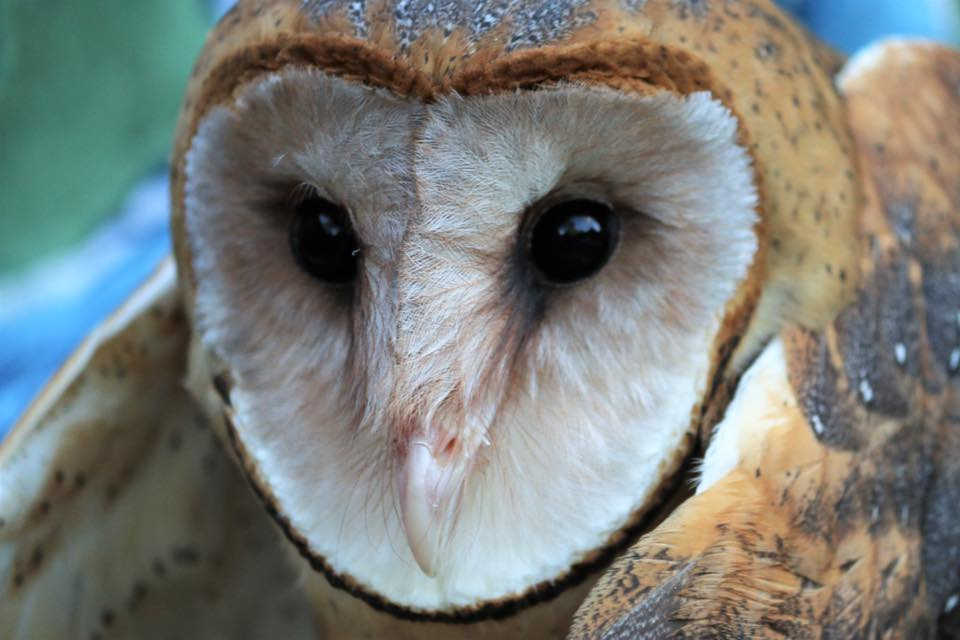
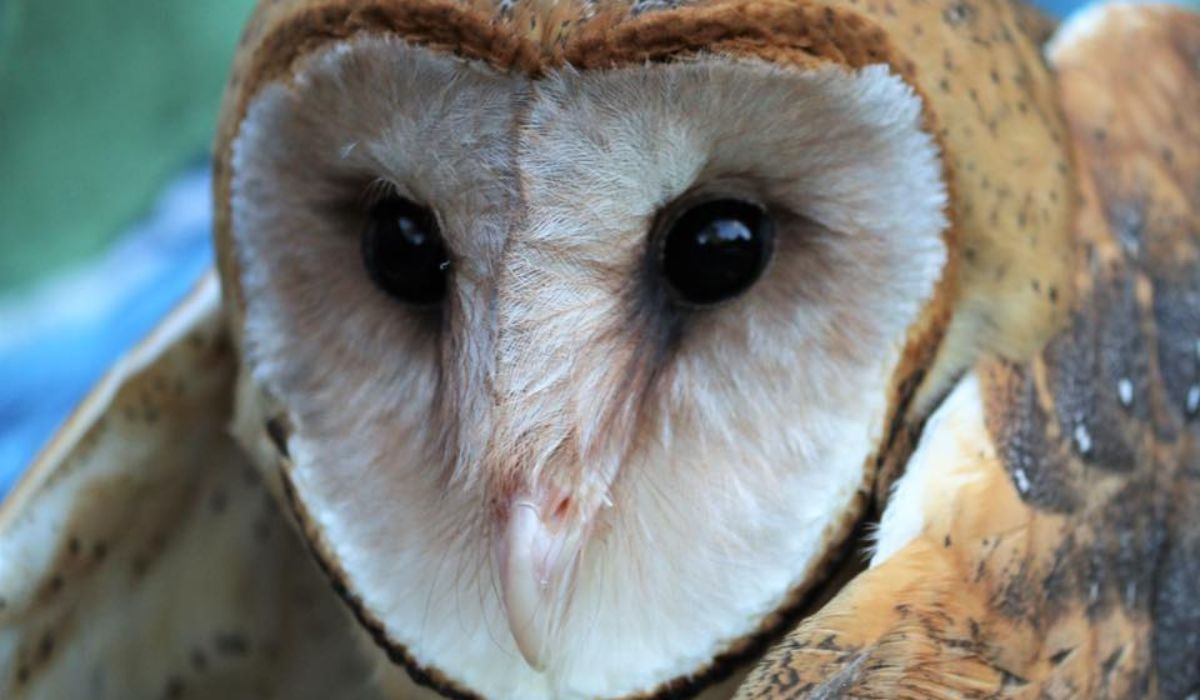
fixed index slider

diff --git a/news.html b/news.html
@@ -17,10 +17,10 @@ featured-image_path: /images/mural.jpg
 
   <h4><a href="/documents/news/"> </a></h4>
 
-  <h4><a href="/documents/news/Wildlife-Center-Founder-Removed-From-Board-Win-Star-10.31.15.pdf">Wildlife Center Founder Removed From Board, <i>The Winchester Star – October 31, 2015</i></a></h4>
+  <h4><a href="/documents/Wildlife-Center-Founder-Removed-From-Board-Win-Star-10.31.15.pdf" target="_blank">Wildlife Center Founder Removed From Board, <i>The Winchester Star – October 31, 2015</i></a></h4>
 
-  <h4><a href="/documents/news/Letter-to-the-Editor-Foul-Play-at-the-BRWC-1.pdf">Letter to the Editor: Foul Play at the BRWC, <i>The Winchester Star - October 9, 2015</i></a></h4>
+  <h4><a href="/documents/Letter-to-the-Editor-Foul-Play-at-the-BRWC-1.pdf">Letter to the Editor: Foul Play at the BRWC, <i>The Winchester Star - October 9, 2015</i></a></h4>
 
-  <h4><a href="/documents/news/Winchester-Star-Open-Forum-Vultures-Circling-9.29.15-1.pdf">Open Forum: Vultures Circling, <i>The Winchester Star - September 29, 2015</i></a></h4>
+  <h4><a href="/documents/Winchester-Star-Open-Forum-Vultures-Circling-9.29.15-1.pdf">Open Forum: Vultures Circling, <i>The Winchester Star - September 29, 2015</i></a></h4>
 
-  <h4><a href="/documents/news/Wildlife-Center-Founder-Says-She-Was-Forced-Out-Win-Star-9.15.pdf">Wildlife Center Founder Says She Was Forced Out, <i>The Winchester Star - September 5, 2015</i></a></h4>
+  <h4><a href="/documents/Wildlife-Center-Founder-Says-She-Was-Forced-Out-Win-Star-9.15.pdf">Wildlife Center Founder Says She Was Forced Out, <i>The Winchester Star - September 5, 2015</i></a></h4>

diff --git a/_site/news.html b/_site/news.html
@@ -141,13 +141,13 @@
 
   <h4><a href="/documents/news/"> </a></h4>
 
-  <h4><a href="/documents/news/Wildlife-Center-Founder-Removed-From-Board-Win-Star-10.31.15.pdf">Wildlife Center Founder Removed From Board, <i>The Winchester Star – October 31, 2015</i></a></h4>
+  <h4><a href="/documents/Wildlife-Center-Founder-Removed-From-Board-Win-Star-10.31.15.pdf" target="_blank">Wildlife Center Founder Removed From Board, <i>The Winchester Star – October 31, 2015</i></a></h4>
 
-  <h4><a href="/documents/news/Letter-to-the-Editor-Foul-Play-at-the-BRWC-1.pdf">Letter to the Editor: Foul Play at the BRWC, <i>The Winchester Star - October 9, 2015</i></a></h4>
+  <h4><a href="/documents/Letter-to-the-Editor-Foul-Play-at-the-BRWC-1.pdf">Letter to the Editor: Foul Play at the BRWC, <i>The Winchester Star - October 9, 2015</i></a></h4>
 
-  <h4><a href="/documents/news/Winchester-Star-Open-Forum-Vultures-Circling-9.29.15-1.pdf">Open Forum: Vultures Circling, <i>The Winchester Star - September 29, 2015</i></a></h4>
+  <h4><a href="/documents/Winchester-Star-Open-Forum-Vultures-Circling-9.29.15-1.pdf">Open Forum: Vultures Circling, <i>The Winchester Star - September 29, 2015</i></a></h4>
 
-  <h4><a href="/documents/news/Wildlife-Center-Founder-Says-She-Was-Forced-Out-Win-Star-9.15.pdf">Wildlife Center Founder Says She Was Forced Out, <i>The Winchester Star - September 5, 2015</i></a></h4>
+  <h4><a href="/documents/Wildlife-Center-Founder-Says-She-Was-Forced-Out-Win-Star-9.15.pdf">Wildlife Center Founder Says She Was Forced Out, <i>The Winchester Star - September 5, 2015</i></a></h4>
 
 
         <footer class="grid">

diff --git a/index.html b/index.html
@@ -7,15 +7,15 @@ featured-image_path: /images/mural.jpg
 
   <!-- FIRST BANNER SECTION ---->
 
-<section class="no-margins">
-  <div class="owl-carousel owl-index owl-theme">
-    <div><img src="/images/banner/belindafox.jpg"></div>
-    <div><img src="/images/banner/mural.jpg"></div>
-    <div><img src="/images/banner/baldeaglevet.jpg"></div>
-    <div><img src="/images/banner/foxhands.jpg"></div>
-    <div><img src="/images/banner/barnowl.jpg"></div>
-  </div>
-</section>
+  <section class="no-margins" id="owl">
+    <div class="owl-carousel owl-index owl-theme">
+      <div><img src="/images/banner/barnowl.jpg"></div>
+      <div><img src="/images/banner/indexslider1.jpg"></div>
+      <div><img src="/images/banner/baldeaglevet.jpg"></div>
+      <div><img src="/images/banner/foxhands.jpg"></div>
+      <div><img src="/images/banner/bird.jpg"></div>
+    </div>
+  </section>
 
 <!-- SECOND CTA SECTION ---->
   <section class="featured centered">

diff --git a/_site/index.html b/_site/index.html
@@ -130,15 +130,15 @@
 
           <!-- FIRST BANNER SECTION ---->
 
-<section class="no-margins">
-  <div class="owl-carousel owl-index owl-theme">
-    <div><img src="/images/banner/belindafox.jpg"></div>
-    <div><img src="/images/banner/mural.jpg"></div>
-    <div><img src="/images/banner/baldeaglevet.jpg"></div>
-    <div><img src="/images/banner/foxhands.jpg"></div>
-    <div><img src="/images/banner/barnowl.jpg"></div>
-  </div>
-</section>
+  <section class="no-margins" id="owl">
+    <div class="owl-carousel owl-index owl-theme">
+      <div><img src="/images/banner/barnowl.jpg"></div>
+      <div><img src="/images/banner/indexslider1.jpg"></div>
+      <div><img src="/images/banner/baldeaglevet.jpg"></div>
+      <div><img src="/images/banner/foxhands.jpg"></div>
+      <div><img src="/images/banner/bird.jpg"></div>
+    </div>
+  </section>
 
 <!-- SECOND CTA SECTION ---->
   <section class="featured centered">

diff --git a/_site/js/main.js b/_site/js/main.js
@@ -28,6 +28,17 @@ $(document).ready( function(){
 
   })
 
+  /*$('.owl-carousel').owlCarousel({
+    items:1,
+    lazyLoad:true,
+    loop:true,
+    margin:0,
+    nav:false,
+    dots:false,
+    autoplay:true,
+    slideBy:1,
+});
+*/
 
 
 

diff --git a/js/main.js b/js/main.js
@@ -28,6 +28,17 @@ $(document).ready( function(){
 
   })
 
+  /*$('.owl-carousel').owlCarousel({
+    items:1,
+    lazyLoad:true,
+    loop:true,
+    margin:0,
+    nav:false,
+    dots:false,
+    autoplay:true,
+    slideBy:1,
+});
+*/
 
 
 

diff --git a/donate.html b/donate.html
@@ -19,6 +19,6 @@ featured-image_path: /images/mural.jpg
 </div>
 </div>
 <div class="col-4_sm-12">
-  <img src="/images/drbwoodturtle.jpg">
+  <img src="/images/drBwoodturtle.jpg">
 </div>
 </section>

diff --git a/_site/donate.html b/_site/donate.html
@@ -143,7 +143,7 @@
 </div>
 </div>
 <div class="col-4_sm-12">
-  <img src="/images/drbwoodturtle.jpg">
+  <img src="/images/drBwoodturtle.jpg">
 </div>
 </section>
 

diff --git a/_site/css/main.css b/_site/css/main.css
@@ -184,6 +184,10 @@ footer nav .fa,
   min-height: 20vh;
 }
 
+#owl {
+  max-height: 60vh;
+}
+
 #rehab {
   background-image: url('/images/rehab.jpg');
 }

diff --git a/css/main.css b/css/main.css
@@ -184,6 +184,10 @@ footer nav .fa,
   min-height: 20vh;
 }
 
+#owl {
+  max-height: 60vh;
+}
+
 #rehab {
   background-image: url('/images/rehab.jpg');
 }
